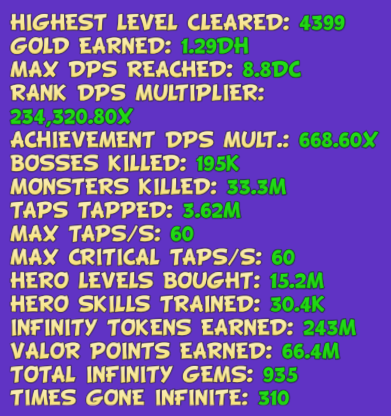
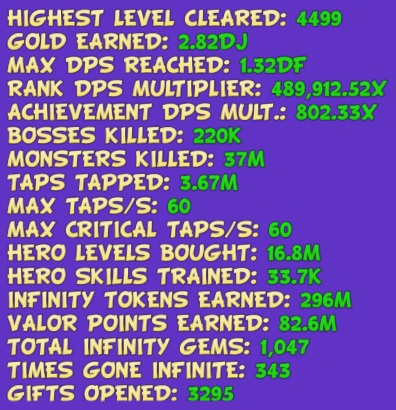
updated save file and info inside README (achievements 97 -> 98, ascend times 14 -> 15)

diff --git a/README.md b/README.md
@@ -4,8 +4,8 @@ This repository contains [save](./SAVE) for [Tap Tap Infinity](https://store.ste
 
 ## All time stats
 
-* **Achievements earned:** 97/100
-* **Ascend times:** 14
+* **Achievements earned:** 98/100
+* **Ascend times:** 15
 
 ![All time stats](./all-time-stats.png)
 
